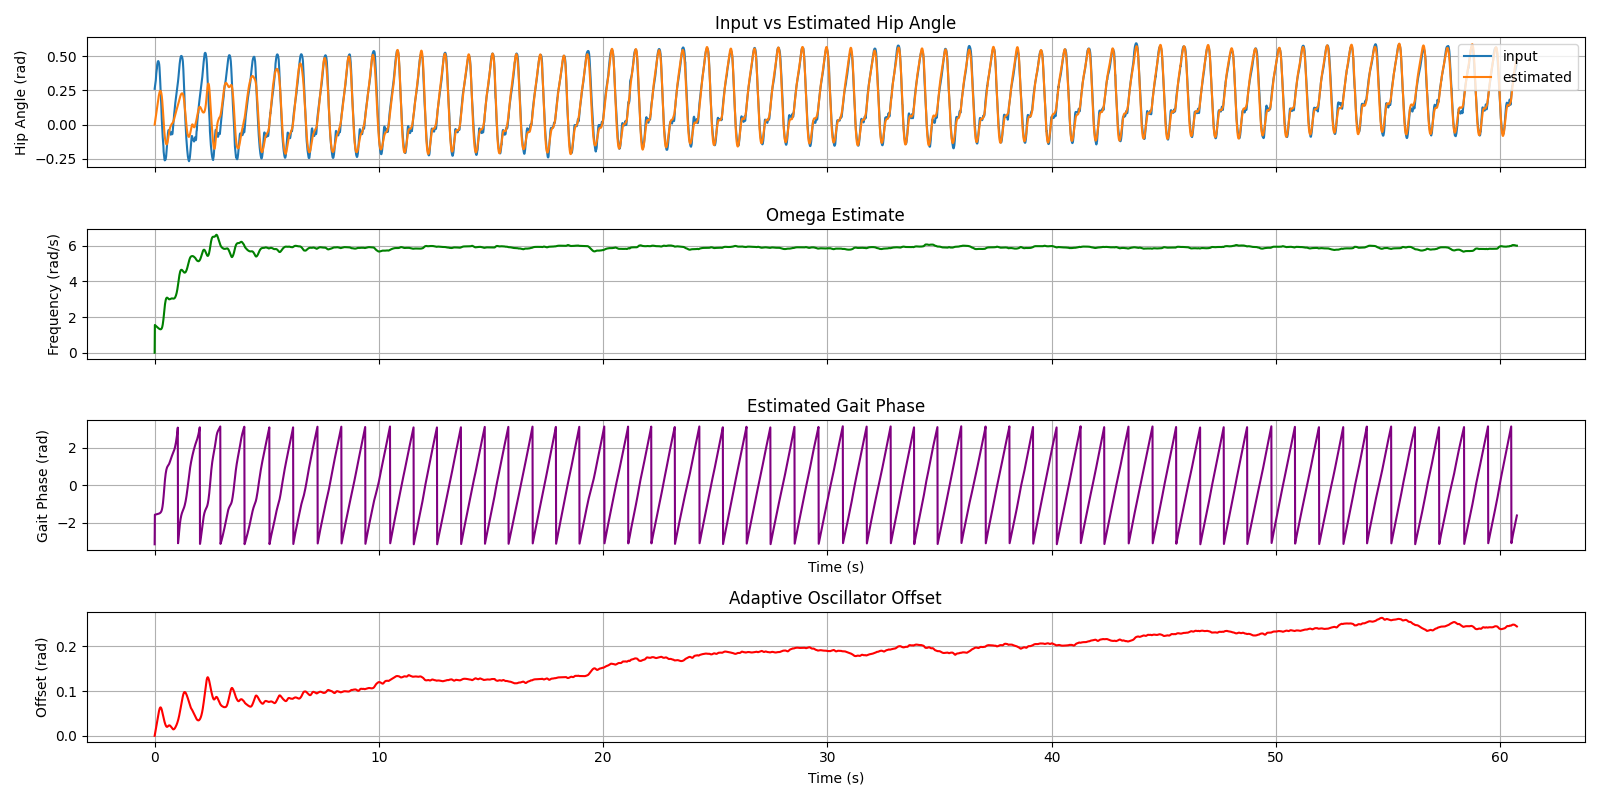
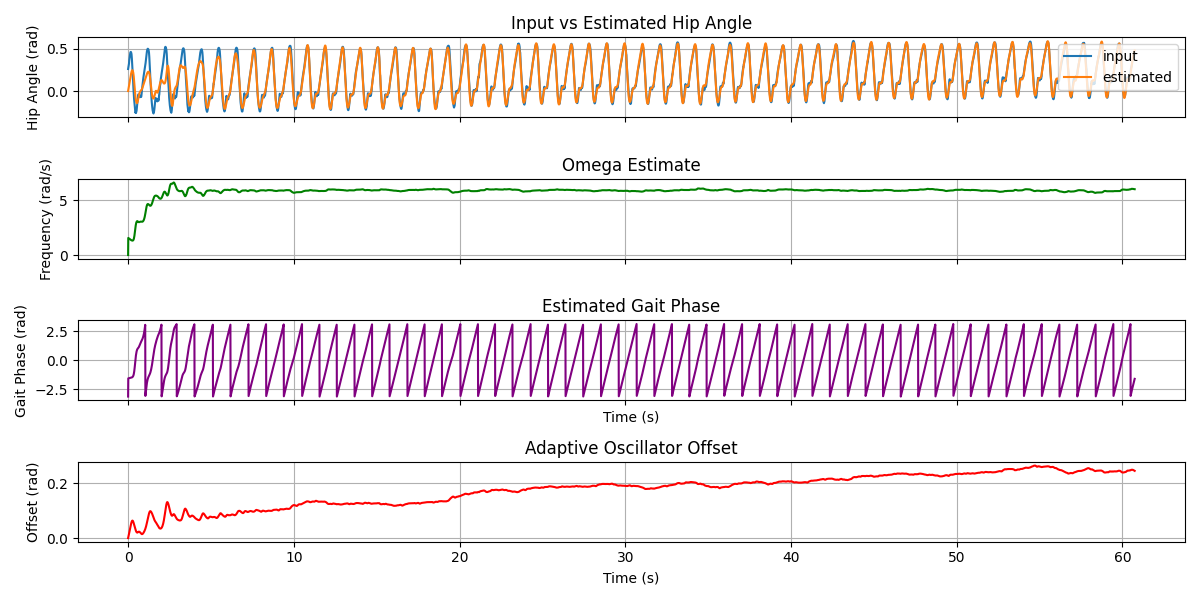
update angle offset code

Changed region(s): [[0.0, 0.48, 1.0, 0.99], [0.0, 0.0, 1.0, 0.21], [0.0308, 0.24, 1.0, 0.45]]

diff --git a/src/adaptive_oscillator/log_files/parser.py b/src/adaptive_oscillator/log_files/parser.py
@@ -65,14 +65,14 @@ class LogFiles:
             f"\n\t{self.quat.right})"
         )
 
-    def plot(self, euler_only: bool = False) -> None:
+    def plot(self, euler_only: bool = False, add_offset: bool = False) -> None:
         """Plot log files.
 
         :param euler_only: Plot only euler angles.
+        :param add_offset: Add offset to angles.
         :return: None
         """
         logger.info("Plotting log file data.")
-        euler_offset = [0.0, 0.0, 0.0]
 
         for side in ["left", "right"]:
             if not euler_only:
@@ -89,7 +89,7 @@ class LogFiles:
                 quat_data.plot()
 
             angle_data = AngleParser(getattr(self.angle, side))
-            angle_data.parse(offsets=euler_offset)
+            angle_data.parse(add_offset=add_offset)
             angle_data.plot(y_label="Euler Angle (deg)")
 
 
@@ -154,8 +154,16 @@ class AngleParser:
         self.hip = AngleXYZ()
         self.knee = AngleXYZ()
         self.ankle = AngleXYZ()
+        self.side: str = ""
 
-    def parse(self, offsets: list[float] | None = None):
+        if "left" in self.filepath.stem:
+            self.side = "left"
+        elif "right" in self.filepath.stem:
+            self.side = "right"
+        else:
+            logger.warning(f"Words 'left' or 'right' not found in {self.filepath}")
+
+    def parse(self, add_offset: bool = False):
         """Parse the log file and return a DataFrame."""
         raw_data = pd.read_csv(self.filepath, sep="\t+", engine="python")
         logger.debug(f"Parsing {self.filepath}")
@@ -170,8 +178,15 @@ class AngleParser:
             z_deg = raw_data[fields[2]].to_numpy()
             setattr(self, segment_name, AngleXYZ(x_deg, y_deg, z_deg))
 
-        if offsets is not None:
+        if add_offset:
+            offsets = [180.0, 0.0, 180.0]
             self.hip.add_offset(offsets=offsets)
+
+            offsets = [180.0, 0.0, 180.0]
+            self.knee.add_offset(offsets=offsets)
+
+            offsets = [180.0, 0.0, 180.0]
+            self.ankle.add_offset(offsets=offsets)
 
     def plot(self, y_label: str) -> None:
         """Plot the x, y, z data.

diff --git a/src/adaptive_oscillator/__main__.py b/src/adaptive_oscillator/__main__.py
@@ -22,8 +22,6 @@ def process_joint_data(joint_data: Joint, joint: str, side: str) -> None:
     :return: None
     """
     logger.info(f"Running controller with '{side}' '{joint}' joint data.")
-    if joint == "hip":
-        joint_data.angles.add_offset(offsets=[180, 0, 180])
     signal = -joint_data.angles.x
     time_stamps = joint_data.time - joint_data.time[0]
 
@@ -56,7 +54,7 @@ def main(log_dir: str, show_plots: bool) -> None:
         plt.show()
 
 
-if __name__ == "__main__":
+if __name__ == "__main__":  # pragma: no cover
     parser = argparse.ArgumentParser(description="Run adaptive oscillator controller.")
     parser.add_argument("--debug", action="store_true", help="Output debug statements.")
     parser.add_argument("--log-dir", required=True, help="Path to the log directory.")

diff --git a/tests/base_classes_test.py b/tests/base_classes_test.py
@@ -22,6 +22,22 @@ def test_angle_xyz():
     assert np.shape(angle_xyz[:]) == (3, num_el)
 
 
+def test_angle_add_offsets() -> None:
+    """Test the AngleAddOffsets class."""
+    # Arrange
+    offsets = [0.0, 0.0, 0.0]
+    array = np.array([0.0, 0.0, 0.0])
+    angles = AngleXYZ(array, array, array)
+
+    # Act
+    angles.add_offset(offsets=offsets)
+
+    # Assert
+    assert angles.x[0] == offsets[0]
+    assert angles.y[0] == offsets[1]
+    assert angles.z[0] == offsets[2]
+
+
 def test_vector_xyz():
     """Test the VectorXYZ class."""
     # Arrange

diff --git a/src/adaptive_oscillator/definitions.py b/src/adaptive_oscillator/definitions.py
@@ -10,7 +10,7 @@ from loguru import logger
 np.set_printoptions(precision=3, floatmode="fixed", suppress=True)
 
 # plot definitions
-FIG_SIZE = (16, 8)  # width, height in inches
+FIG_SIZE = (12, 6)  # width, height in inches
 ALPHA = 0.8
 LEGEND_LOC = "upper right"
 
